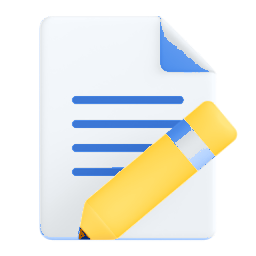
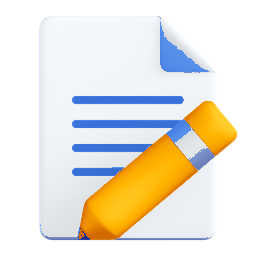
Ikon menu: pewarnaan lebih jenuh dan kontras (kecerahan dibentangkan per ikon, tangga biru/kuning lebih pekat)

Changed region(s): [[0.1562, 0.375, 0.9375, 0.9375], [0.7188, 0.2812, 0.75, 0.3125]]

diff --git a/scripts/warnai-ikon.py b/scripts/warnai-ikon.py
@@ -12,9 +12,10 @@ def hex_ke_rgb(h):
     h = h.lstrip("#")
     return tuple(int(h[i:i + 2], 16) for i in (0, 2, 4))
 
-# (posisi 0..1 menurut kecerahan, warna). Biru tengah = biru logo Tera (#0060F0).
-BIRU = [(0.0, "#07276F"), (0.45, "#0050D8"), (0.7, "#1F7AFF"), (1.0, "#7DB4FF")]
-KUNING = [(0.0, "#A85A00"), (0.45, "#F2A100"), (0.7, "#FFC926"), (1.0, "#FFE680")]
+# (posisi 0..1 menurut kecerahan, warna). Biru tengah = biru logo Tera (#0060F0). Tangga SEMPIT di sisi
+# putih (tanpa pucat) dan LEBAR di sisi gelap, supaya kesannya jenuh, tebal, dan kontras seperti ikon "play".
+BIRU = [(0.0, "#0A2A8C"), (0.3, "#0A4FD6"), (0.6, "#0A5CF0"), (0.85, "#3A8BFF"), (1.0, "#8EC0FF")]
+KUNING = [(0.0, "#D26A00"), (0.3, "#F59A00"), (0.6, "#FFB400"), (0.85, "#FFD233"), (1.0, "#FFEB85")]
 
 def tangga(stops, t):
     t = max(0.0, min(1.0, t))
@@ -25,9 +26,39 @@ def tangga(stops, t):
             return tuple(ra[i] + (rb[i] - ra[i]) * f for i in range(3))
     return hex_ke_rgb(stops[-1][1])
 
+def rentang(im):
+    """Persentil 8 dan 98 kecerahan piksel berwarna: ikon aslinya pastel (hampir semuanya terang),
+    jadi tanpa dibentangkan semua piksel jatuh di ujung terang tangga dan hasilnya pucat."""
+    px = im.load()
+    semua = []
+    for y in range(im.height):
+        for x in range(im.width):
+            r, g, b, a = px[x, y]
+            if a < 200:
+                continue
+            h, s, v = colorsys.rgb_to_hsv(r / 255, g / 255, b / 255)
+            if s >= 0.12:
+                semua.append(v)
+    semua.sort()
+    if not semua:
+        return 0.3, 1.0
+    return semua[int(len(semua) * 0.08)], semua[int(len(semua) * 0.98) - 1]
+
+
+# Titik tertinggi pada tangga yang dipakai badan ikon (1.0 = ujung putih kebiruan/kekuningan).
+PUNCAK = 0.8
+
+
+def bentang(v, lo, hi):
+    u = max(0.0, min(1.0, (v - lo) / max(hi - lo, 1e-6)))
+    u = u * u * (3 - 2 * u) * 0.65 + u * 0.35  # lengkung S: gelap lebih gelap, terang lebih terang
+    return u * PUNCAK
+
+
 def warnai(src, dst, tukar=False):
     im = Image.open(src).convert("RGBA")
     px = im.load()
+    lo, hi = rentang(im)
     for y in range(im.height):
         for x in range(im.width):
             r, g, b, a = px[x, y]
@@ -48,10 +79,9 @@ def warnai(src, dst, tukar=False):
             if tukar:
                 hangat = not hangat
             # Kecerahan asli (0.35..1.0) dibentangkan ke seluruh tangga.
-            t = (v - 0.35) / 0.65
-            warna = tangga(KUNING if hangat else BIRU, t)
+            warna = tangga(KUNING if hangat else BIRU, bentang(v, lo, hi))
             # Kilap (jenuh rendah) tetap memutih; badan (jenuh tinggi) memakai warna tangga penuh.
-            sn = min(1.0, s / 0.5) ** 0.8
+            sn = min(1.0, s / 0.3) ** 0.7
             putih = (255, 255, 255)
             mix = tuple(putih[i] + (warna[i] - putih[i]) * sn for i in range(3))
             px[x, y] = (round(mix[0]), round(mix[1]), round(mix[2]), a)
@@ -61,6 +91,7 @@ def merah_ke_biru(src, dst):
     """Hanya warna merah/merah muda yang diganti biru (tangga BIRU); warna lain tetap ASLI."""
     im = Image.open(src).convert("RGBA")
     px = im.load()
+    lo, hi = rentang(im)
     for y in range(im.height):
         for x in range(im.width):
             r, g, b, a = px[x, y]
@@ -69,8 +100,8 @@ def merah_ke_biru(src, dst):
             h, s, v = colorsys.rgb_to_hsv(r / 255, g / 255, b / 255)
             if s < 0.24 or not (h < 25 / 360 or h > 296 / 360):
                 continue
-            warna = tangga(BIRU, (v - 0.35) / 0.65)
-            sn = min(1.0, s / 0.5) ** 0.8
+            warna = tangga(BIRU, bentang(v, lo, hi))
+            sn = min(1.0, s / 0.35) ** 0.7
             mix = tuple(255 + (warna[i] - 255) * sn for i in range(3))
             px[x, y] = (round(mix[0]), round(mix[1]), round(mix[2]), a)
     im.save(dst, optimize=True)
